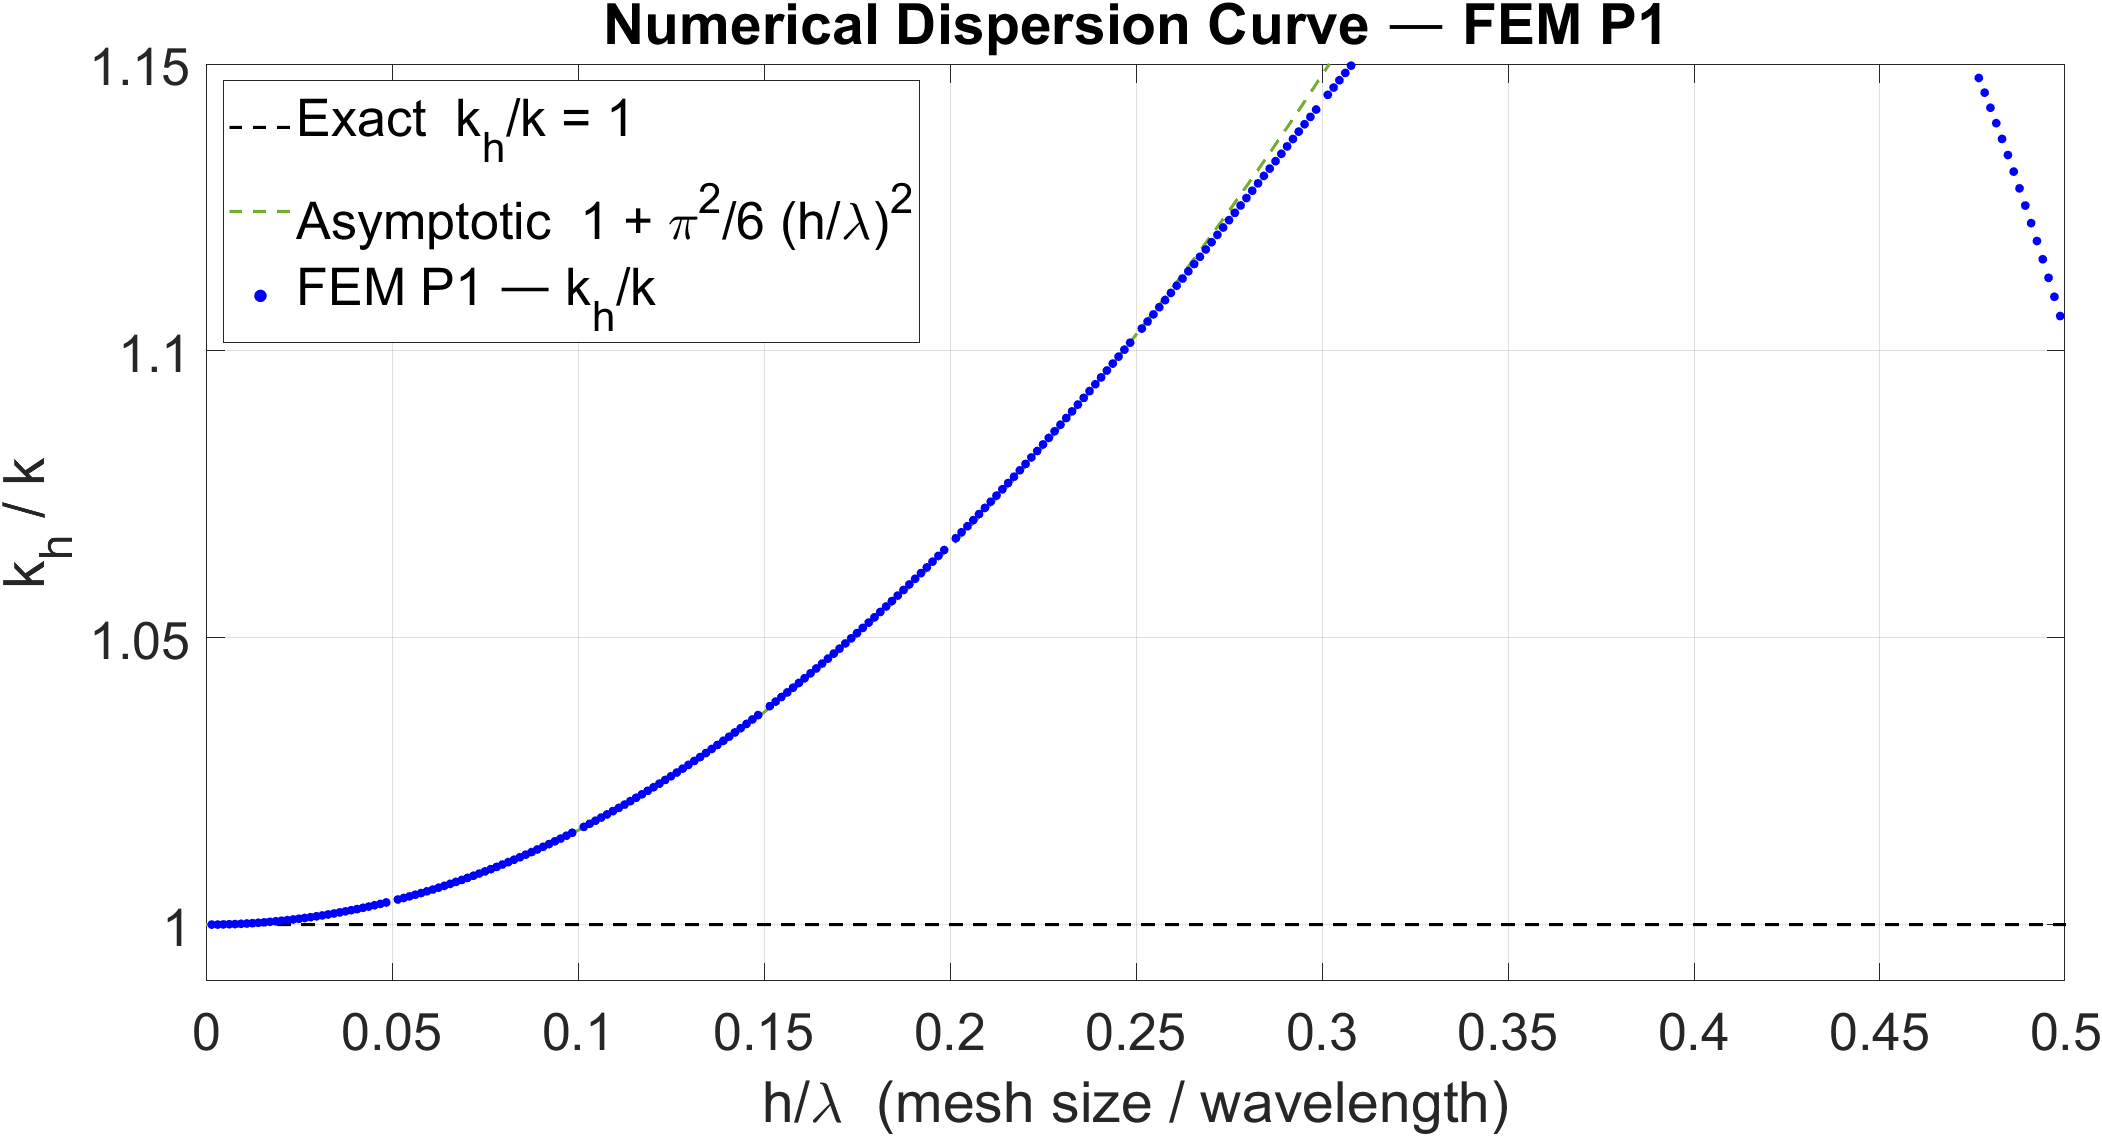
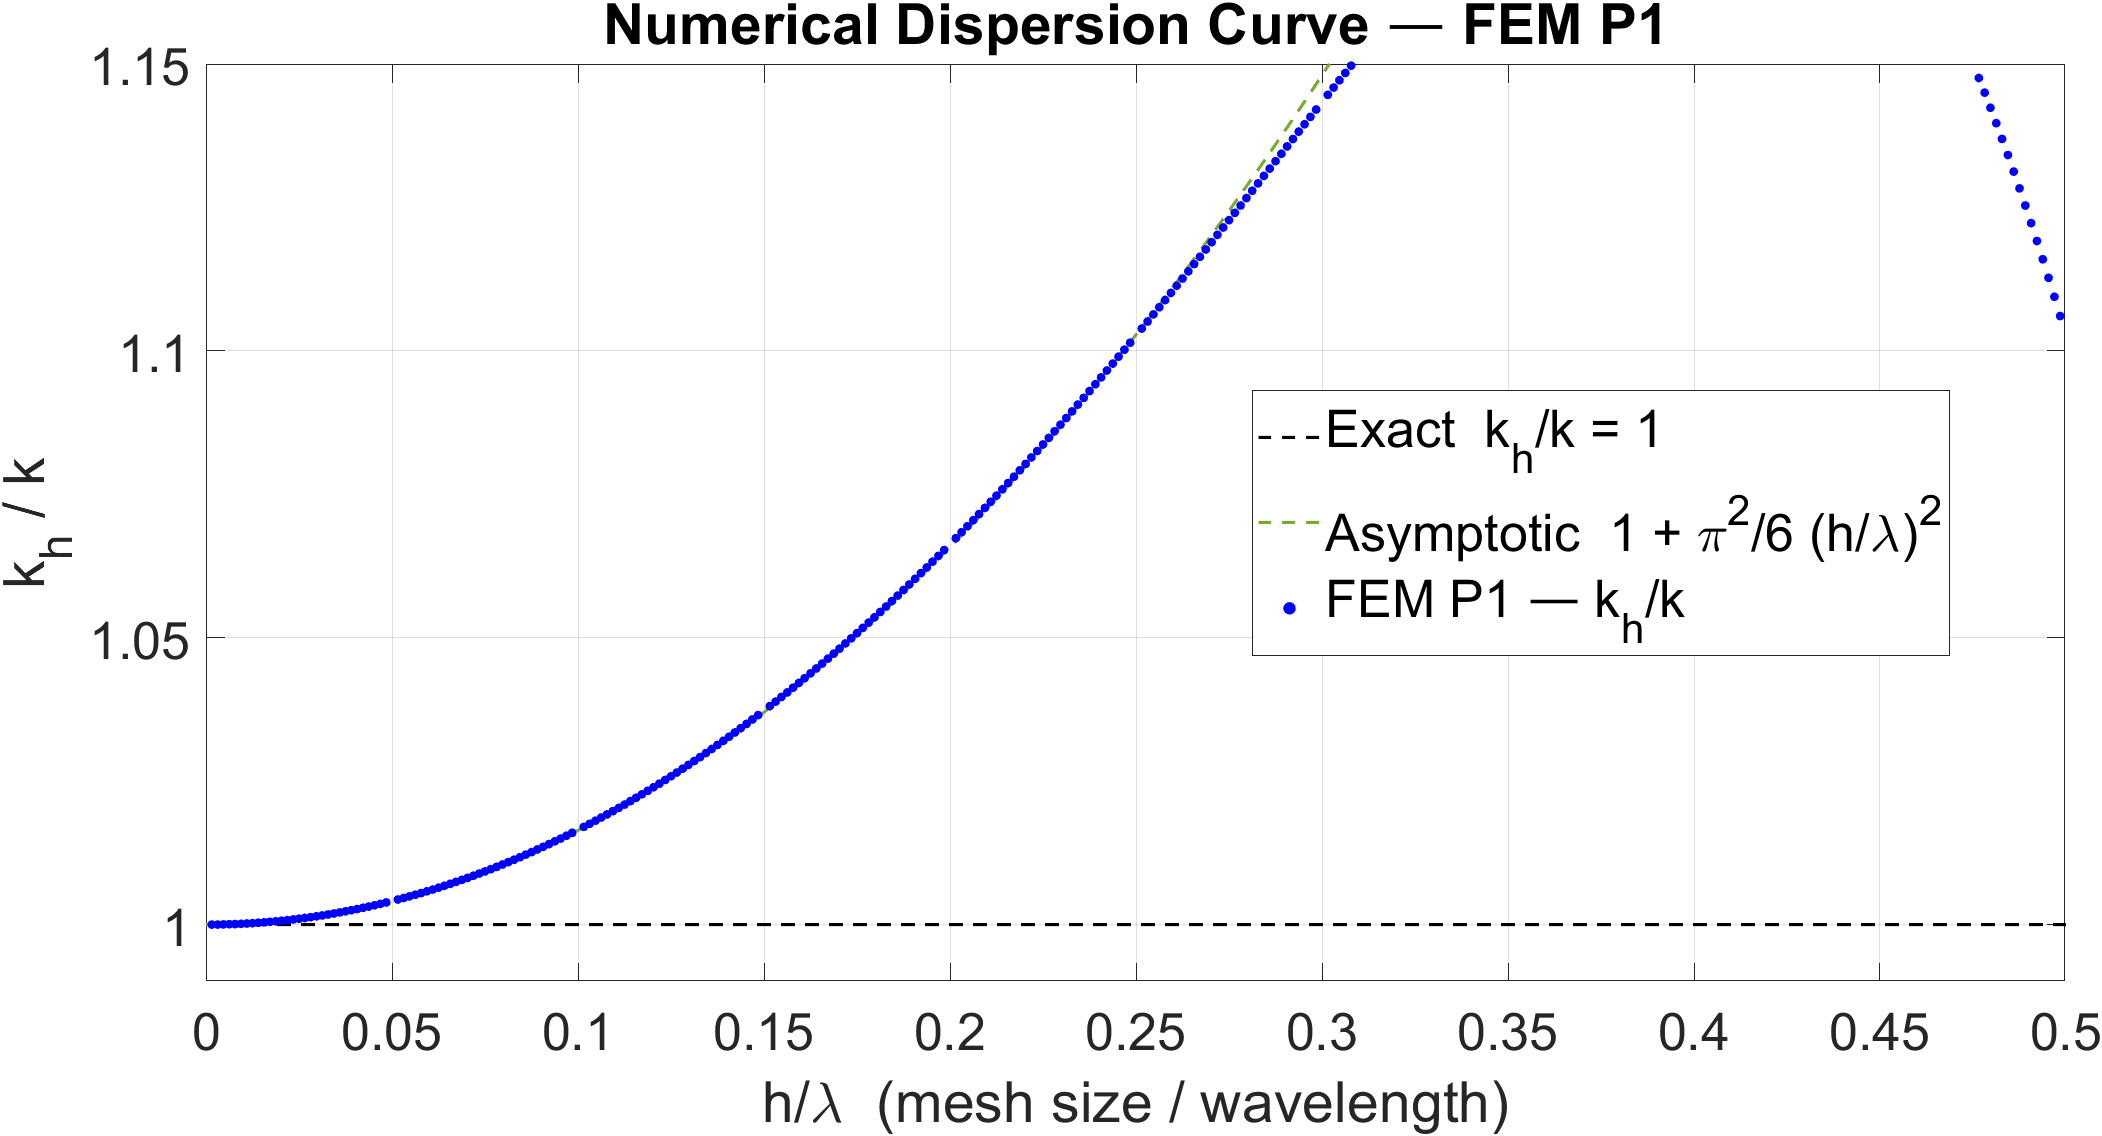
Output HW1

diff --git a/Homeworks/HW1/Codes/RunMainHMZ.m b/Homeworks/HW1/Codes/RunMainHMZ.m
@@ -139,7 +139,7 @@ exportgraphics(gcf, fullfile(out_dir, '3.1_amplitude.png'), 'Resolution', 150);
 
 figure('Name','Phase — Point 3','NumberTitle','off');
 set(gcf, 'WindowState', 'maximized');
-plot(x3, unwrap(angle(u3))*180/pi, '-', 'Color',c2, 'LineWidth',lw);
+plot(x3, unwrap(angle(u3)*180/pi), '-', 'Color',c2, 'LineWidth',lw);
 xline(0.5,'--k','LineWidth',1.2,'Label','x = 0.5  (\mu jump)',...
       'LabelVerticalAlignment','top','FontSize',fontsize-4,'HandleVisibility','off');
 xlabel('x [m]','FontSize',fontsize); ylabel('Phase [deg]','FontSize',fontsize);
@@ -222,7 +222,7 @@ scatter(hOverLambda_all, khOverK_all, 18, 'blue', 'filled',...
 xlabel('h/\lambda  (mesh size / wavelength)', 'FontSize',fontsize);
 ylabel('k_h / k', 'FontSize',fontsize);
 title('Numerical Dispersion Curve — FEM P1', 'FontSize',fontsizeT, 'FontWeight','bold');
-legend('Location','northwest', 'FontSize',fontsize);
+legend('Location','best', 'FontSize',fontsize);
 xlim([0 0.5]); ylim([0.99 1.15]);
 grid on; box on; ax=gca; ax.FontSize=fontsize;
 exportgraphics(gcf, fullfile(out_dir, '4_Dispersion.png'), 'Resolution', 150);
@@ -272,21 +272,21 @@ xlabel('x [m]', 'FontSize',fontsize);
 ylabel('|u(x)|', 'FontSize',fontsize);
 title('Amplitude Comparison — Impedance BC vs PML', ...
       'FontSize',fontsizeT, 'FontWeight','bold');
-legend('Location','northeast', 'FontSize',fontsize);
+legend('Location','best', 'FontSize',fontsize);
 grid on; box on; ax=gca; ax.FontSize=fontsize;
 xlim([0, x_PML_end]);
 exportgraphics(gcf, fullfile(out_dir, '5.1_amplitude.png'), 'Resolution', 150);
 
 % ---- Figure 2: Phase comparison P3 vs P5 su dominio esteso ----
 phase3_ext = NaN(size(x5));
-phase3_ext(1:length(u3)) = unwrap(angle(u3))*180/pi;
+phase3_ext(1:length(u3)) = unwrap(angle(u3)*180/pi);
 
 figure('Name','Phase Comparison — Impedance BC vs PML','NumberTitle','off');
 set(gcf, 'WindowState', 'maximized');
 plot(x5, phase3_ext,                      '-',  'Color',c1, 'LineWidth',lw,...
      'DisplayName','Impedance BC (Point 3)');
 hold on;
-plot(x5, unwrap(angle(u5))*180/pi,        '--', 'Color',c2, 'LineWidth',lw,...
+plot(x5, unwrap(angle(u5)*180/pi),        '--', 'Color',c2, 'LineWidth',lw,...
      'DisplayName','PML (Point 5)');
 xline(0.5, '--k', 'LineWidth',1.2, ...
       'Label','x = 0.5  (\mu jump)',...
@@ -300,7 +300,7 @@ xlabel('x [m]', 'FontSize',fontsize);
 ylabel('Phase [deg]', 'FontSize',fontsize);
 title('Phase Comparison — Impedance BC vs PML',...
       'FontSize',fontsizeT, 'FontWeight','bold');
-legend('Location','northwest', 'FontSize',fontsize);
+legend('Location','best', 'FontSize',fontsize);
 grid on; box on; ax=gca; ax.FontSize=fontsize;
 xlim([0, x_PML_end]);
 exportgraphics(gcf, fullfile(out_dir, '5.2_phase.png'), 'Resolution', 150);
